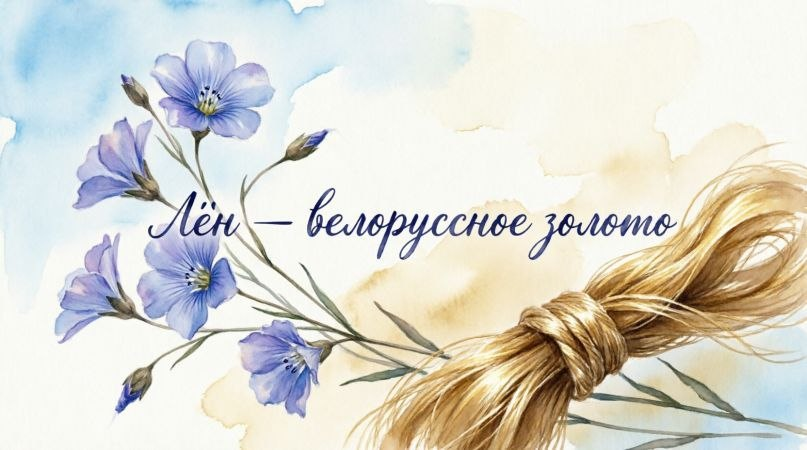
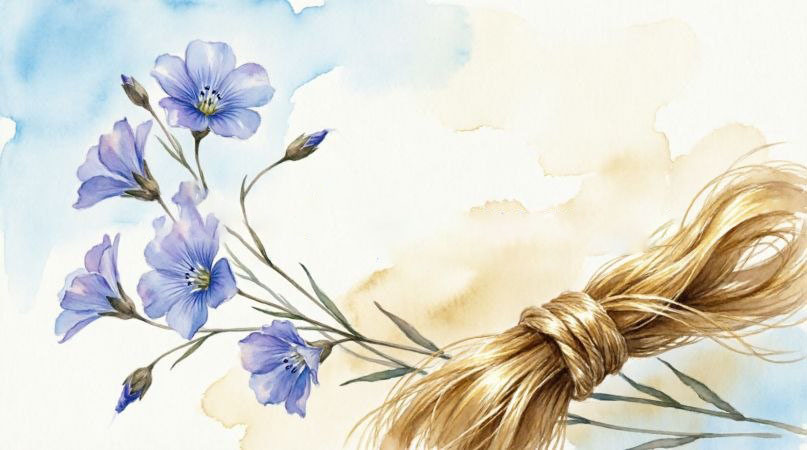
update header

Changed region(s): [[0.1859, 0.4044, 0.8364, 0.5911]]

diff --git a/index.html b/index.html
@@ -30,7 +30,7 @@
 
         <div class="hero">
             <div class="hero__content container">
-                <!-- <h1 class="hero__title">Лён — белорусское золото</h1> -->
+                <h1 class="hero__title">Лён — белорусское золото</h1>
             </div>
         </div>
     </header>
